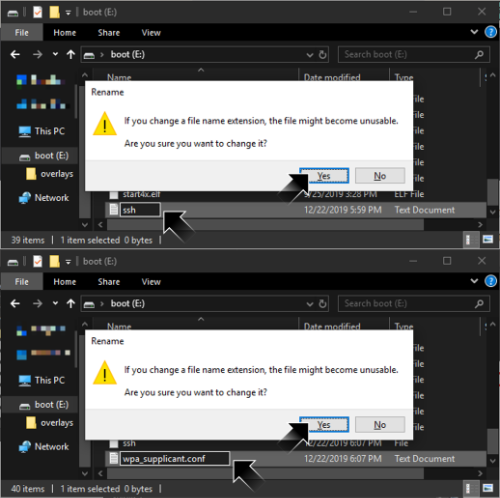
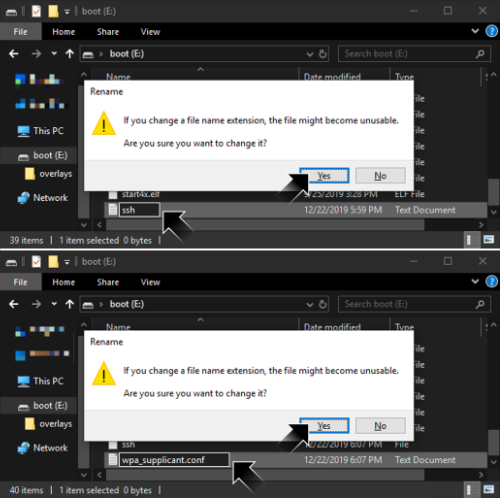
Edits to Introduction to Raspberry Pi.

diff --git a/README.md b/README.md
@@ -51,6 +51,7 @@
 * This tutorial **requires the Raspberry Pi Zero W** ("wireless") which can be purchased from as little at $5-10 (computer only), you will also need:
    * Cell phone charger (5V) with micro USB
    * MicroSD card (≥8 GB)
+   * NOTE: There exists an older model, Raspberry Pi Zero (without the "W"), that does not include the required WiFi functionality for this tutorial
 
 ### WiFi Network
 
@@ -60,6 +61,8 @@
    * Some networks may require additional registration for new devices, like a school or public hotspot
    * The network can be hidden
 2. The wireless network must have disabled [**"wireless isolation"** (a.k.a. AP isolation, station isolation, or client isolation)](https://www.howtogeek.com/179089/lock-down-your-wi-fi-network-with-your-routers-wireless-isolation-option/)
+   * There is no compromise on this one; if wireless isolation is not disabled on your network, you will not be able to connect to your Pi trhough WiFi
+* NOTE: If your network is open and does not require a password, you should secure your network as soon as possible: [https://lifehacker.com/how-to-make-your-wifi-router-as-secure-as-possible-1827695547](https://lifehacker.com/how-to-make-your-wifi-router-as-secure-as-possible-1827695547)
 
 [Back to Top](#table-of-contents)
 
@@ -88,6 +91,7 @@
 * We will use a command line interface (CLI)-only Linux operating system
    * There is no graphical user interface (GUI) like Microsoft Windows
    * Your interaction with the Raspberry Pi will be completely through text commands from a different computer
+   * **You do not need to learn CLI right now**, just follow the exact commands here and you will get though this tutorial
 * Download the latest Raspbian **Lite** image from: [https://www.raspberrypi.org/downloads/raspbian/](https://www.raspberrypi.org/downloads/raspbian/)
 
 [![.img/step02a.png](.img/step02a.png)](#nolink)
@@ -114,15 +118,18 @@
 
 [![.img/step02c.png](.img/step02c.png)](#nolink)
 
+5. Make two new configuration files
    * Make a new file called `ssh` (no file extension)
+      * This file will remain empty
    * Make a new file called `wpa_supplicant.conf`
 
 [![.img/step02d.png](.img/step02d.png)](#nolink)
 
-5. `wpa_supplicant.conf` settings
+6. `wpa_supplicant.conf` settings
    * Open `wpa_supplicant.conf` with Notepad (right-click → Open with → Choose another app → Notepad)
    * Copy and paste the following, changing `<NETWORK NAME>` and `<NETWORK PASSWORD>` to match your network's and save
       * If your WiFi network is hidden, you must use the line `scan_ssid=1`
+      * Change the country code as appropriate
 
 ```
 ctrl_interface=DIR=/var/run/wpa_supplicant GROUP=netdev
@@ -139,12 +146,16 @@ network={
 
 [![.img/step02e.png](.img/step02e.png)](#nolink)
 
-6. Headless OS installation
-   * **Headless** means that we will not have a monitor or keyboard attached to the Raspberry Pi Zero W and all administration of it will be remotely through command line interface (CLI)
-   1. The Pi should not be powered on at this time
-   2. Insert micro SD card
-   3. Plug the micro USB power into the power port and the green LED should start blinking
-   4. Wait for ~10 minutes while the Raspbian OS installs, configures itself, and automatically connects to your WiFi network; when it is done, the green LED should stop blinking and stay on
+### 2.3. Headless OS installation
+
+**Headless** means that we will not have a monitor or keyboard attached to the Raspberry Pi Zero W and all administration of it will be remotely through command line interface (CLI)
+
+1. The Pi should not be powered on at this time
+2. Insert micro SD card
+3. Plug the micro USB power into the power port and the green LED should start blinking
+4. Wait for ~10 minutes while the Raspbian OS installs, configures itself, and automatically connects to your WiFi network
+
+**When the Pi is ready, the green LED should stop blinking and stay on**
 
 [Back to Top](#table-of-contents)
 
@@ -157,7 +168,7 @@ network={
 **This may be tricky depending on your unique situation; I will describe three scenarios**
 
 1. You have administrative access to your local network's router
-   * Log into the router and determine the IP address that corresponds to the `raspberrypi` hostname (default name configured for your Raspberry Pi Zero W)
+   * Log into the router and determine the IP address that corresponds to the hostname `raspberrypi` (default name configured for your Raspberry Pi Zero W)
 2. You **do not** have access to your network's router but have USB and HDMI adapters
    * You need an HDMI compatible TV or monitor
    * Adapters for micro USB (Male) to USB-A (Female) and Mini HDMI (Male) to HDMI (Female)
@@ -165,7 +176,7 @@ network={
    [![.img/step03a.png](.img/step03a.png)](#nolink)
 
    * Connect a USB keyboard and HDMI monitor to the Pi using the adapters
-   * Login as username `pi` and password `raspberry`
+   * Login as default username `pi` and password `raspberry`
    * Execute `ifconfig` and determine Pi's IP address
 
    ```
@@ -181,7 +192,8 @@ network={
 ### 3.2. Remote connection to Raspberry Pi
 
 * We will use Bash secure shell (SSH) through the WSL command line interface
-* SSH as username `pi` and password `raspberry`
+* Knowing the Pi's IP address, SSH as default username `pi@<IP ADDRESS>` and password `raspberry`
+   * E.g. `pi@192.168.0.2`
 
 ```
 $ ssh pi@<IP ADDRESS>
@@ -191,7 +203,7 @@ $ ssh pi@<IP ADDRESS>
 <LOGIN MESSAGE OF THE DAY>
 ```
 
-**If you successfully log in, CONGRATS! all the hard work is now done**
+**If you successfully log in, all the hard work is now done**
 
 [Back to Top](#table-of-contents)
 
@@ -199,17 +211,19 @@ $ ssh pi@<IP ADDRESS>
 
 ## 4. Setup
 
-1. After logging in, we need to make a change to a location where the Pi will look for updates
+1. After logging in, we need to make a change to a location where the Pi will look for updates, run
 
 ```
 $ sudo nano /etc/apt/sources.list
 ```
 
-* Uncomment (remove '#' in front of): `deb-src http://raspbian...`
+* Uncomment (remove "`#`" in front of): `deb-src http://raspbian...`
    * Press `CTRL+O` then `ENTER` to save
    * Press `CTRL+X` to exit
 
-2. Next, we need to update everything on the Pi and install a couple new dependencies (this will take 10+ mins., time for coffee break):
+2. Next, we need to update everything on the Pi and install a few new dependencies
+   * Copy and paste the entire multi-line block of code after the "`$`" and press ENTER
+   * Coffee break: This will take 10+ mins. and you don't need to babysit this
 
 ```
 $ sudo apt-get update && \
@@ -234,7 +248,8 @@ $ cd ~ && \
   cmake .
 ```
 
-2. We can now build the Craft program to run on the specific Raspberry Pi Zero W hardware (this will take ~10 mins., time for coffee break #2)
+2. We can now build the Craft program to run on the specific Raspberry Pi Zero W hardware
+   * Coffee break #2: This will take ~10 mins. and you don't need to babysit this
 
 ```
 $ make && \
@@ -242,14 +257,15 @@ $ make && \
 ```
 
 3. Start server
-   * The server hosts a persistent, shared world for users (clients) to connect to and play
+   * The server program hosts a persistent, shared world for users (clients) to connect to and play together
    * Remember the IP address for the Pi, this IP is the address that clients will connect to within your local area network (LAN)
-   * Once you run the line below, the server display any output as events happen in the game world (players connecting, logging out, etc.)
-      * You can stop the server by pressing `CTRL+C`
+   * Once you run the line below, the server program will start displaying events as they happen in the game world (players connecting, logging out, etc.)
 
 ```
 $ python server.py
 ```
+
+After you are done with this tutorial, you can shut down the server program by pressing `CTRL+C` or continue to have the server program run as long as you want to play on it
 
 [Back to Top](#table-of-contents)
 
@@ -259,11 +275,11 @@ $ python server.py
 
 ### 6.1. Registering an account
 
-* Even if we roll our own sever here, we need to register an account at the author's website to make changes in the multiplayer world: https://craft.michaelfogleman.com/
+* Even if we made our own sever here, we need to register an account on the author's website: https://craft.michaelfogleman.com/
 
 > "Why register?
 >
-> You can play on most game servers anonymously. **However, without registering you will not be able to make changes in most areas of the world**. After you are registered, game server admins can grant you various types of permissions."
+> You can play on most game servers anonymously. **However, without registering you will not be able to make changes in most areas of the world**."
 
 * After you register and verify your email address, log back into https://craft.michaelfogleman.com/ and make an Identity Token, it should look like this:
 
@@ -271,16 +287,19 @@ $ python server.py
 /identity <USERNAME> 0123456789abcdef0123456789abcdef
 ```
 
-* **Highlight the line and CTRL+C** (pressing the copy to clipboard didn't work for me to paste in the game)
-   * NOTE: You can only see and copy this key once, when you close the window or logout, you will have to make another key
-
 [![.img/step06a.png](.img/step06a.png)](#nolink)
+
+* **Highlight the line and CTRL+C** (pressing the copy to clipboard didn't work for me to paste in the game)
+* NOTE: You can only see and copy this key once; when you close the window or logout, you will have to make another key
 
 ### 6.2. Download Craft client
 
 * Download the Craft client for Windows or MacOS here: https://www.michaelfogleman.com/projects/craft/
    * This is a "portable" program; nothing needs to be installed, just extract the ZIP file
 * Run `craft.exe`
+
+### 6.3. Connecting to Craft server
+
 * Once the game starts, press "T" and CTRL+V to paste in your Identity Token and press ENTER
 * Press "T" and enter `/online <SERVER IP>` to connect to your Raspberry Pi Zero Craft server
    * Once on the server, you should automatically be connected as your account
@@ -288,7 +307,11 @@ $ python server.py
 
 [![.img/step06b.png](.img/step06b.png)](#nolink)
 
-### 6.3 Playing Craft
+### 6.4 Playing Craft
+
+**CONGRATS! You're done with the tutorial**
+
+Have some fun and build a new world in your own Craft playground:
 
 Button | Action
 --- | ---
@@ -302,20 +325,26 @@ CTRL+Right-Mouse | Create light source
 ESCAPE | Mouse control back to OS (to close or maximize/minimize Craft window)
 More controls | https://github.com/fogleman/Craft#controls
 
+### 6.5 Multiplayer vs. single-player
+
+[![.img/step07a.png](.img/step07a.png)](#nolink)
+
+* You can have a single-player experience in Craft without connecting to a server and have your world saved locally on your computer
+* Other players will not be able to connect to your world in single-player mode
+* The only way to have multiplayer in Craft is to connect to a server that is running the Craft server program
+
 [Back to Top](#table-of-contents)
 
 --------------------------------------------------------------------------------------------------
 
 ## 7. Next Steps
 
-**We touched on a bunch of different IT tasks here; learning to be a self-sufficient "Helpdesk" just takes a lot of experimenting and DIY projects like this**
-
-[![.img/step07a.png](.img/step07a.png)](#nolink)
+**We touched on a bunch of different IT tasks here; you're easily on your way to becoming a self-sufficient ["techie"](https://www.merriam-webster.com/dictionary/techie), it just takes a lot of experimenting and DIY projects like this**
 
 * Have other people join in at your home network!
    * What we've setup here, only computers within your local area network (LAN) can connect to your server
 * Learn how to make cloud instances and share your server to the world
-   * WARNING: You should "harden" your server security first before exposing any of your servers to the general public: [https://www.upguard.com/blog/10-essential-steps-for-configuring-a-new-server](https://www.upguard.com/blog/10-essential-steps-for-configuring-a-new-server)
+   * WARNING: You should "harden" your server security first before exposing any of your servers to the public internet: [https://www.upguard.com/blog/10-essential-steps-for-configuring-a-new-server](https://www.upguard.com/blog/10-essential-steps-for-configuring-a-new-server)
 
 **If you would like to learn more about Bash and command line interface (CLI), please see [Atet's 15 Minute Introduction to Regular Expressions (in Bash)](https://github.com/atet/learn/blob/master/regex/README.md#atet--learn--regex)**
 
@@ -325,8 +354,8 @@ More controls | https://github.com/fogleman/Craft#controls
 
 ## Why Raspberry Pi?
 
-* **_Trust me on this one_**: There's a huge difference in your learning experience when the brand you're working with has sold 10+ million computers vs. lesser-known alternatives that may be a bit cheaper
-* With a larger userbase, bugs get fixed quicker, there's reliable community and official support, you can expect timely updates, etc.
+* **_Trust me on this one_**: There's a huge difference in your learning experience when the brand you're working with has sold 10+ million computers vs. lesser-known alternatives that may be a _bit_ cheaper
+* With a larger userbase, there's reliable community and official support, bugs get fixed quicker, you can expect timely updates, etc.
 * The Raspberry Pi Zero is amazing for its price point, [but it's not going to play Crysis](https://en.wikipedia.org/wiki/Crysis_(video_game)#Legacy); this brand has other more powerful and more expensive computers if you need the horsepower
 
 > [![.img/wrpa.png](.img/wrpa.png)](#nolink)
@@ -342,7 +371,9 @@ More controls | https://github.com/fogleman/Craft#controls
 Description | Link
 --- | ---
 Official Raspberry Pi Help | https://www.raspberrypi.org/help/
-Official Craft Server Installation | [https://github.com/fogleman/Craft#linux-ubuntu](https://github.com/fogleman/Craft#linux-ubuntu)
+Official Craft Server Installation | https://github.com/fogleman/Craft#linux-ubuntu
+Official Raspberry Pi Getting Started Guide | https://projects.raspberrypi.org/en/pathways/getting-started-with-raspberry-pi
+Official Raspberry Pi Project Ideas | https://projects.raspberrypi.org/en/
 
 [Back to Top](#table-of-contents)
 
@@ -352,9 +383,9 @@ Official Craft Server Installation | [https://github.com/fogleman/Craft#linux-ub
 
 Issue | Solution
 --- | ---
-I don't see the `boot` folder after I burn the OS image to the micro SD card | You needed to have formatted the card (to have a partition) BEFORE burning the Raspbian image to the card
-I reformatted the SD card and the free space is **less** than before | You may be limited due to multiple existing partitions on your card; erase all partitions before formatting as **one partition**
-I cannot find my Pi's IP address | _Did your Pi successfully connect to your WiFi network?_ You may have to go back and verify `wpa_supplicant.conf` or confirm you can have new devices connect to your network
+I don't see the `boot` folder after I burn the OS image to the micro SD card | You needed to have formatted the card (to have a partition) BEFORE burning the Raspbian image to the card; repeat steps 1-3 in [2.2. Prepare Micro SD Card](#22-prepare-micro-sd-card)
+I reformatted the SD card and the free space is **less** than before | Multiple partitions may exist on your card from a previous OS burn; erase all partitions before formatting as **one partition**
+I cannot find my Pi's IP address | _Did your Pi actually connect to your WiFi network successfully?_ You may have to go back and verify `wpa_supplicant.conf` or confirm you can connect new devices to your network
 
 [Back to Top](#table-of-contents)
 
